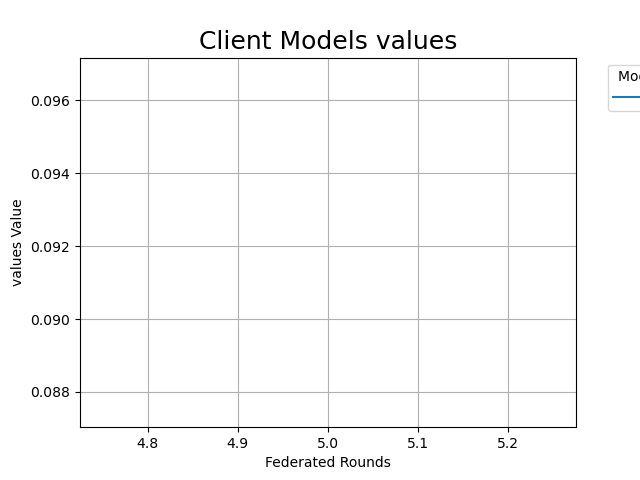
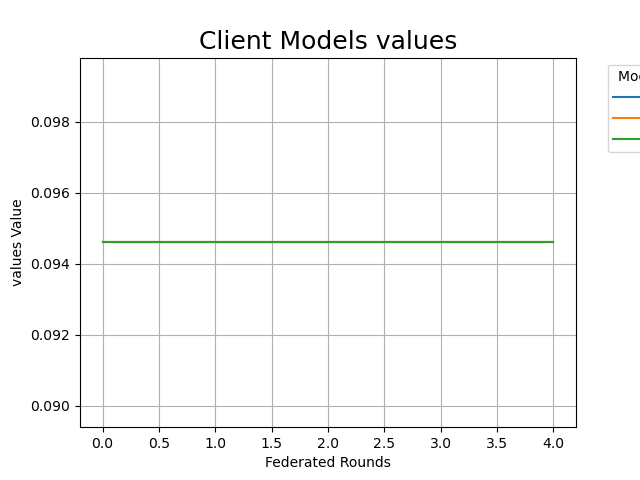
Fixed plot

diff --git a/server.py b/server.py
@@ -31,8 +31,8 @@ class Server:
             value = client.bid * (self.best_accuracy - client.median)
             reserve_price = next_client.bid * (self.best_accuracy - next_client.median)
             if value > reserve_price:
-                client1.model.load_state_dict(self.best_model.state_dict())
-                client2.pay += reserve_price
+                client.model.load_state_dict(self.best_model.state_dict())
+                client.pay += reserve_price
 
     def set_receivers(self):
         for receiver in self.clients:
@@ -83,19 +83,25 @@ class Server:
         for client in self.clients:
             client.payment_history.append(client.pay)
             client.allocation_history.append(client.allocation)
-            client.pay = 0
 
     def plot(self, what, filename):
         """Testing error for all Demand Clients."""
-        rounds = self.rounds
-        assert what in ["values", "utilities"], "only support utilities and values."
+        assert what in [
+            "values",
+            "utilities",
+        ], "Please specify either 'values' or 'utilities'"
+        y = []
         for client in self.clients:
             if what == "values":
-                y = client.median
+                y.append(np.array(client.allocation_history))
             if what == "utilities":
-                y = client.median * client.bid - client.pay
+                y.append(
+                    np.array(client.allocation_history) * client.bid
+                    - np.array(client.payment_history)
+                )
+        y = np.vstack(y).T
         plt.plot(
-            rounds, y, label=f"Client {client} - {client.bid}",
+            list(range(self.rounds)), y, label=f"Client {client} - {client.bid}",
         )
         plt.ylabel(f"{what} Value")
         plt.xlabel("Federated Rounds")

diff --git a/client.py b/client.py
@@ -1,6 +1,5 @@
 import string
 import torch
-from tqdm import tqdm
 from sklearn.metrics import accuracy_score
 
 
@@ -16,7 +15,7 @@ class Client:
         self.test_dl = test_dl
         self.criterion = criterion
         self.device = device
-        self.optimizer = optimizer
+        self.optimizer = optimizer(architecture.parameters(), lr=0.1)
         self.value = value
 
         self.client_num = Client.client_count
@@ -38,7 +37,7 @@ class Client:
 
     @property
     def allocation(self):
-        return self.test(self.architecture)
+        return self.test(self.architecture)[1]
 
     def send(self):
         """
@@ -106,13 +105,13 @@ class Client:
         model.to(self.device)
         model.train()
         batch_loss, batch_acc = [], []
-        for features, labels in tqdm(self.train_dl):
+        for features, labels in self.train_dl:
             features, labels = features.to(self.device), labels.to(self.device)
-            optimizer.zero_grad()
+            self.optimizer.zero_grad()
             logits = model(features)
             loss = self.criterion(logits, labels)
             loss.backward()
-            optimizer.step()
+            self.optimizer.step()
             batch_loss.append(loss.cpu())
             pred = torch.argmax(logits, dim=1)
             batch_acc.append(accuracy_score(labels.cpu(), pred.cpu()))

diff --git a/main.py b/main.py
@@ -95,7 +95,7 @@ if mnist or fashion_mnist:
             test_dl,
             criterion,
             device,
-            utils.exponential_cutoff,
+            Adam,
             client_values[i],
         )
         for i in range(n)
@@ -112,8 +112,7 @@ elif cifar:
             test_dl,
             criterion,
             device,
-            Adam(),
-            utils.transmission_criterion,
+            Adam,
             client_values[i],
         )
         for i in range(n)
